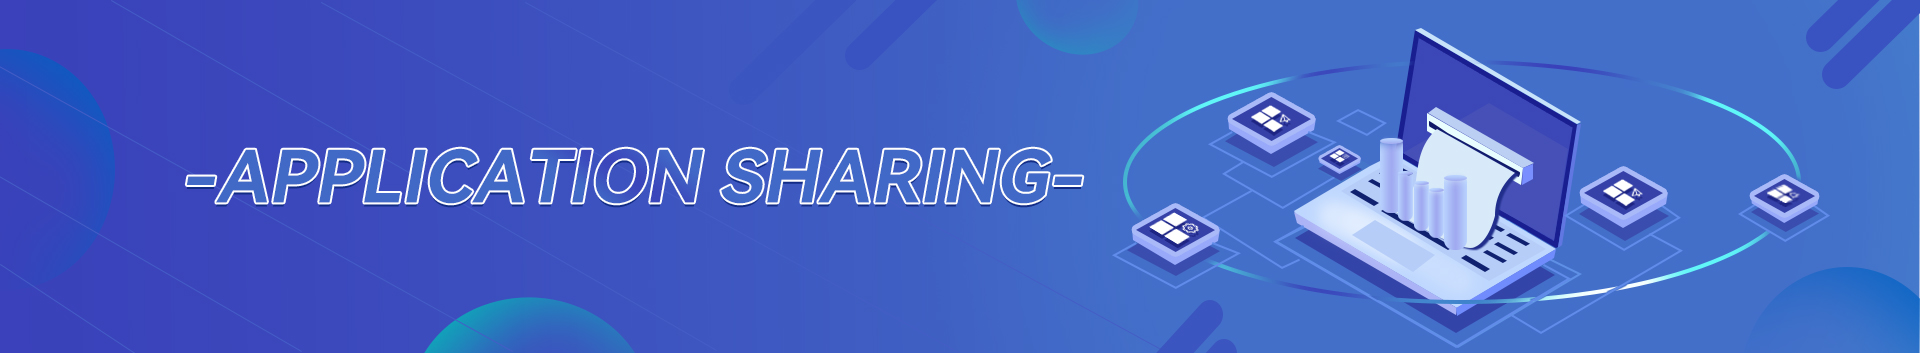
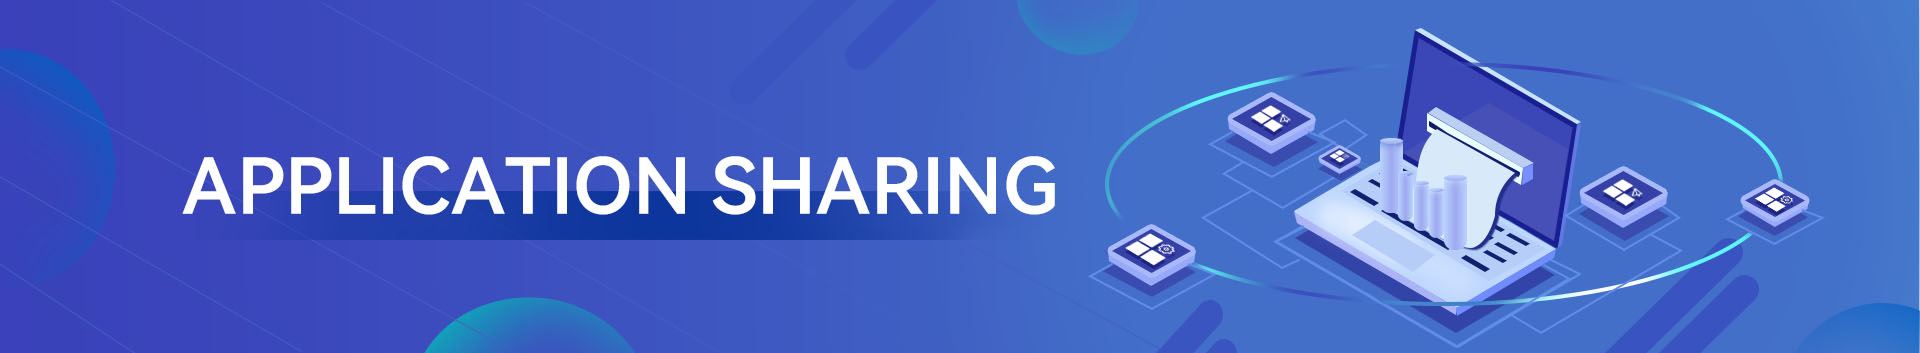
应用共享banner字体优化

diff --git a/src/pages/appPromotion/appShareIndex.vue b/src/pages/appPromotion/appShareIndex.vue
@@ -165,7 +165,7 @@ export default {
   },
   data () {
     return {
-      bannerImg: 'images/sharebannercn.png',
+      bannerImg: 'images/sharebannercn.jpg',
       enDetailButton: enDetailButton,
       cnDetailButton: cnDetailButton,
       language: localStorage.getItem('language')
@@ -195,12 +195,12 @@ export default {
   },
   mounted () {
     this.language = localStorage.getItem('language')
-    this.bannerImg = this.language === 'cn' ? 'images/sharebannercn.png' : 'images/sharebanneren.jpg'
+    this.bannerImg = this.language === 'cn' ? 'images/sharebannercn.jpg' : 'images/sharebanneren.jpg'
   },
   watch: {
     '$i18n.locale': function () {
       this.language = localStorage.getItem('language')
-      this.bannerImg = this.language === 'cn' ? 'images/sharebannercn.png' : 'images/sharebanneren.jpg'
+      this.bannerImg = this.language === 'cn' ? 'images/sharebannercn.jpg' : 'images/sharebanneren.jpg'
     }
   }
 }
